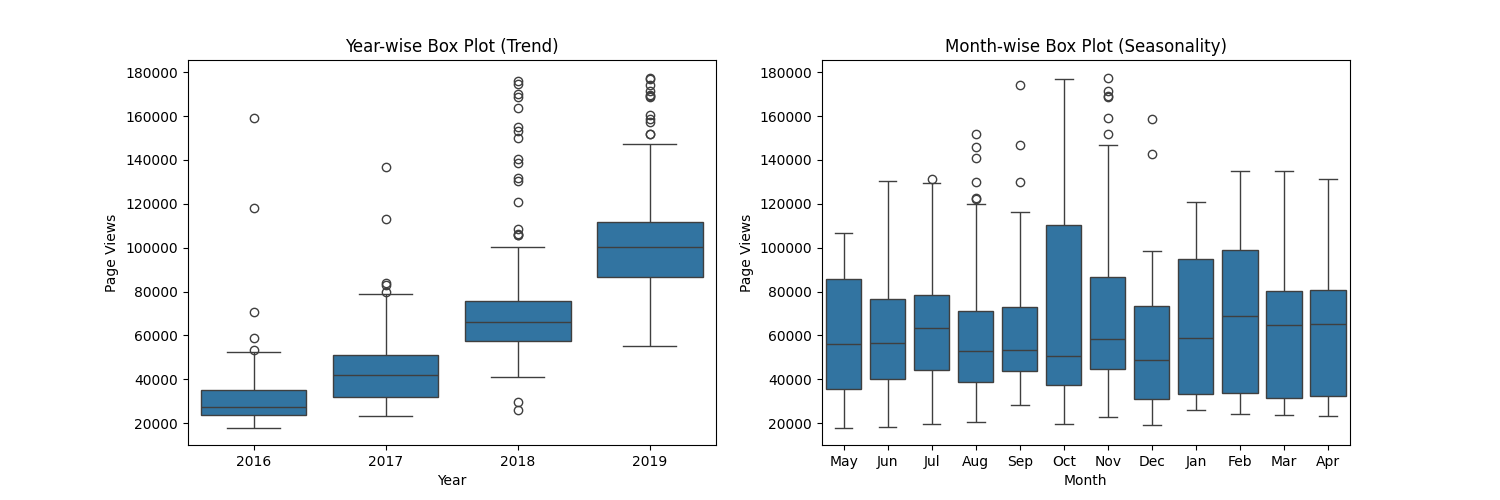
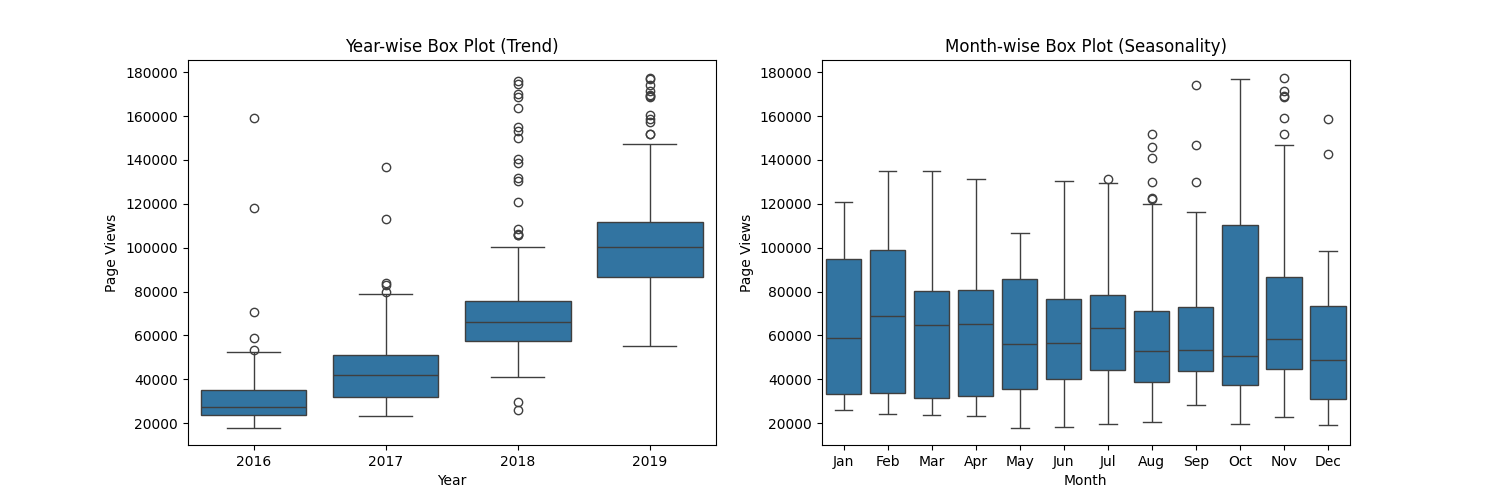
Add files via upload

diff --git a/page-view-time-series-visualizer/time_series_visualizer.py b/page-view-time-series-visualizer/time_series_visualizer.py
@@ -1,13 +1,24 @@
-import pandas as pd
+from pathlib import Path
+
 import matplotlib.pyplot as plt
+import pandas as pd
 import seaborn as sns
 
-df = pd.read_csv("fcc-forum-pageviews.csv", index_col="date", parse_dates=True)
-
-df = df[
-    (df["value"] >= df["value"].quantile(0.025))
-    & (df["value"] <= df["value"].quantile(0.975))
+MONTHS = [
+    "January", "February", "March", "April", "May", "June",
+    "July", "August", "September", "October", "November", "December",
 ]
+MONTHS_ABBR = [m[:3] for m in MONTHS]
+
+df = pd.read_csv(
+    Path(__file__).with_name("fcc-forum-pageviews.csv"),
+    index_col="date",
+    parse_dates=True,
+)
+
+# Remove the top 2.5% and bottom 2.5% of page views
+low, high = df["value"].quantile([0.025, 0.975])
+df = df[(df["value"] >= low) & (df["value"] <= high)]
 
 
 def draw_line_plot():
@@ -16,6 +27,7 @@ def draw_line_plot():
     ax.set_title("Daily freeCodeCamp Forum Page Views 5/2016-12/2019")
     ax.set_xlabel("Date")
     ax.set_ylabel("Page Views")
+
     fig.savefig("line_plot.png")
     return fig
 
@@ -25,10 +37,21 @@ def draw_bar_plot():
     df_bar["year"] = df_bar.index.year
     df_bar["month"] = df_bar.index.month_name()
 
-    fig = df_bar.groupby(["year", "month"])["value"].mean().unstack().plot(kind="bar").figure
-    plt.xlabel("Years")
-    plt.ylabel("Average Page Views")
-    plt.legend(title="Months")
+    # unstack() sorts month names alphabetically, so force calendar order
+    df_pivot = (
+        df_bar.groupby(["year", "month"])["value"]
+        .mean()
+        .unstack()
+        .reindex(columns=MONTHS)
+    )
+
+    fig, ax = plt.subplots(figsize=(10, 8))
+    # 12 months > 10 default colors, so use a palette with enough distinct colors
+    df_pivot.plot(kind="bar", ax=ax, colormap="tab20")
+    ax.set_xlabel("Years")
+    ax.set_ylabel("Average Page Views")
+    ax.legend(title="Months")
+
     fig.savefig("bar_plot.png")
     return fig
 
@@ -39,12 +62,14 @@ def draw_box_plot():
     df_box["month"] = df_box.index.strftime("%b")
 
     fig, axes = plt.subplots(1, 2, figsize=(15, 5))
+
     sns.boxplot(x="year", y="value", data=df_box, ax=axes[0])
     axes[0].set_title("Year-wise Box Plot (Trend)")
     axes[0].set_xlabel("Year")
     axes[0].set_ylabel("Page Views")
 
-    sns.boxplot(x="month", y="value", data=df_box, ax=axes[1])
+    # order= keeps Jan..Dec instead of the order months first appear in the data
+    sns.boxplot(x="month", y="value", data=df_box, order=MONTHS_ABBR, ax=axes[1])
     axes[1].set_title("Month-wise Box Plot (Seasonality)")
     axes[1].set_xlabel("Month")
     axes[1].set_ylabel("Page Views")
